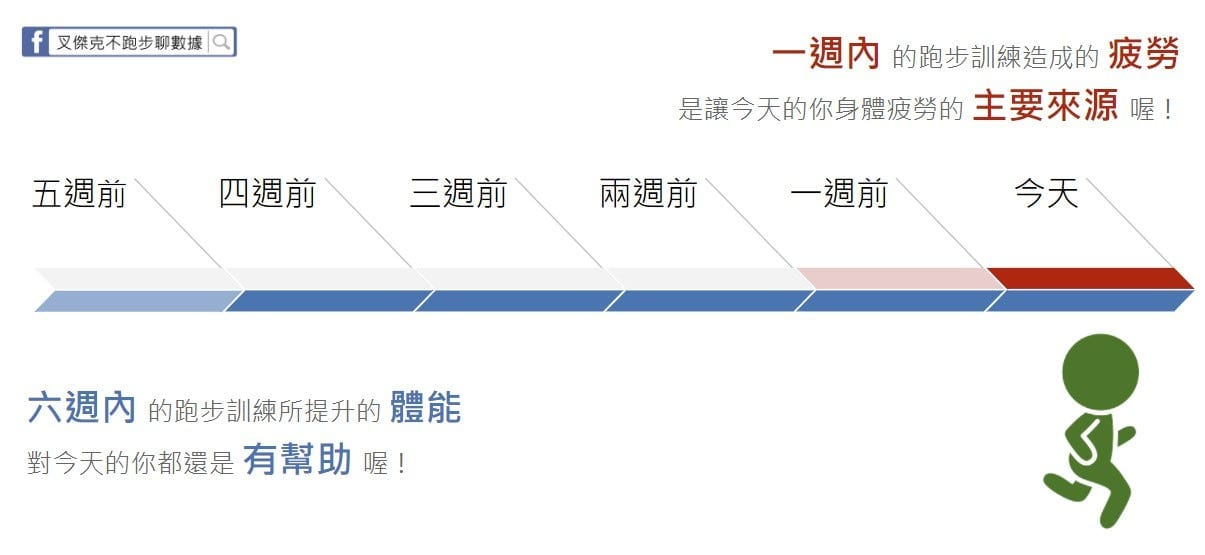
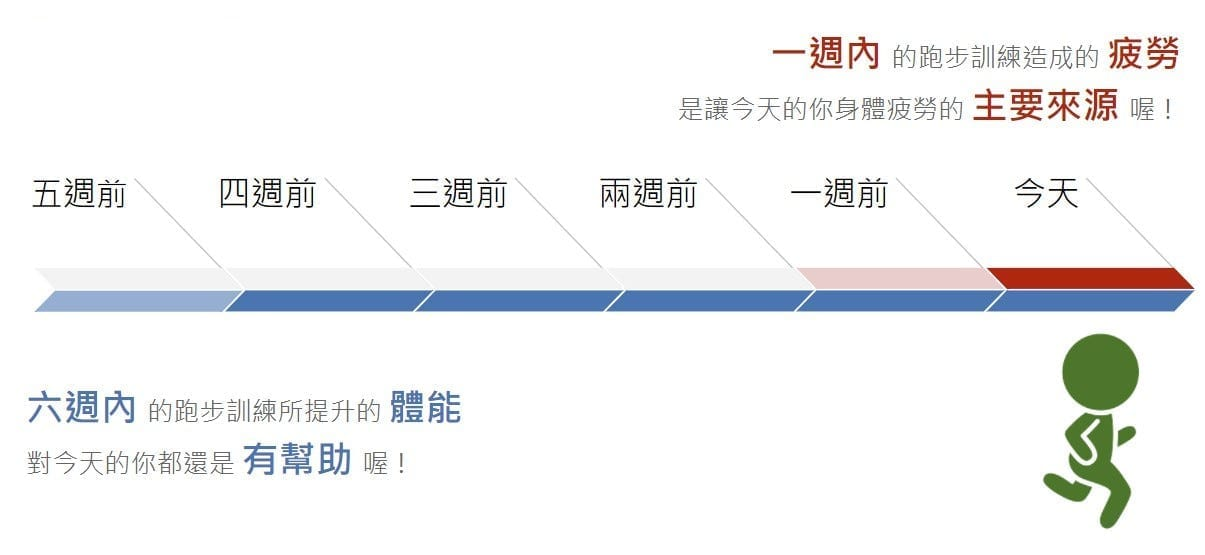
切換前稽核修正：抓周牆照片、舊粉專名、LinkedIn 本名、跑者稱呼
- 抓周文 01、07 是抓周牆，夾著 12 張桐桐的月份照，拿掉並改用標題封面
- 三張數據圖角落的舊粉專名搜尋框塗白（1268 兩張、Medium 652a626979ee 一張）
- 結構化資料的 LinkedIn 網址含本名，改成只在關於我頁放
- 裝備欄十年的部落格小字不把 XJack 寫成跑者
- 三處中文之間多出來的空格

Changed region(s): [[0.0, 0.0306, 0.2149, 0.1225]]

diff --git a/src/data/projects.ts b/src/data/projects.ts
@@ -104,7 +104,7 @@ export const projects: Project[] = [
     quality: 'rare',
     summary:
       'Blogger「叉傑克-進化科學跑者之路」、Medium、舊站 xjack.tw 和運動筆記，寫訓練日誌、比賽心得、馬拉松數據和創業。52 篇全部搬進「冒險日誌」。',
-    flavor: '從肥宅進化成跑者的完整攻略。',
+    flavor: '從肥宅到跑完全馬的完整攻略。',
     url: '/blog/',
     urlLabel: '讀冒險日誌',
     // 預覽圖：六篇不同年份舊文章的封面（2014 都蘭、2015 開網誌、2017 初馬、2018 功率計、2020 臺北馬數據、2022 RQ 六歲），沒有桐桐的照片

diff --git a/src/data/now.ts b/src/data/now.ts
@@ -19,7 +19,7 @@ export const now = [
   {
     kind: '每週任務',
     label: '桐爸日記',
-    text: '每週一、四在 <a href="https://www.facebook.com/rqxjack" target="_blank" rel="noopener">粉絲專頁</a> 更新桐桐的家庭漫畫，素材由桐桐無償提供。LINE 貼圖也上架了。',
+    text: '每週一、四在<a href="https://www.facebook.com/rqxjack" target="_blank" rel="noopener">粉絲專頁</a>更新桐桐的家庭漫畫，素材由桐桐無償提供。LINE 貼圖也上架了。',
     progress: '每週一、四',
   },
   {

diff --git a/src/content/blog/xjack/2021-07-17-1277.md b/src/content/blog/xjack/2021-07-17-1277.md
@@ -3,7 +3,7 @@ title: "【寶寶抓周】傳統抓周儀式也可以很跑步！"
 date: 2021-07-17
 legacyId: 1277
 legacyUrl: "https://xjack.tw/w/bd/1277"
-cover: "./images/1277/01.jpg"
+cover: "./images/1277/cover.jpg"
 excerpt: "宅在家裡全力防疫的同時，寶寶不知不覺滿一歲了，已經決定每個儀式都要過好過滿的我們，眼看著無法到抓周會館來場傳統儀式小旅行，就決定租一套抓周古禮大全套，直接在家…"
 tags: []
 legacyExcerpt: "宅在家裡全力防疫的同時，寶寶不知不覺滿一歲了，已經決定每個儀式都要過好過滿的我們，眼看著無法到抓周會館來場傳統儀式小旅行，就決定租一套抓周古禮大全套，直接在家舉辦。就讓我紀錄這場特別的線上「桐桐..."
@@ -19,7 +19,7 @@ alsoAt:
 
 ## 場景服裝準備
 
-![](./images/1277/01.jpg)
+<p class="photo-removed">（這裡原本有一張桐桐露臉的照片，為了保護她的隱私，搬家時先拿掉了。）</p>
 
 場景佈置除了有租來的抓周大旗外，還印出桐桐從出生到一歲每個月的精選照片作為背景。活動儀式要挑選的吉時，就是寶寶吃飽睡好心情好之時，先觀察寶寶與家人們的起居作息，挑了個晚餐後的活力充沛時段。服裝挑選上就是一大難題了，桐寶寶怎麼穿都可愛，就讓老婆決定吧！
 
@@ -96,7 +96,7 @@ alsoAt:
 
 原本想使用老婆第一次上凸台的木製獎盃，因為私心想讓她多注意，木製獎盃不夠繽紛也不夠大，最後採用 RQ 選手們與教練首次組團參加 2020 大腳丫接力賽，獲得第十名的超浮誇巨型獎盃。
 
-![](./images/1277/07.jpg)
+<p class="photo-removed">（這裡原本有一張桐桐露臉的照片，為了保護她的隱私，搬家時先拿掉了。）</p>
 
 有看出來嗎？這 12 樣物品，剛好就組成一場路跑賽事的整個流程啊！
 
